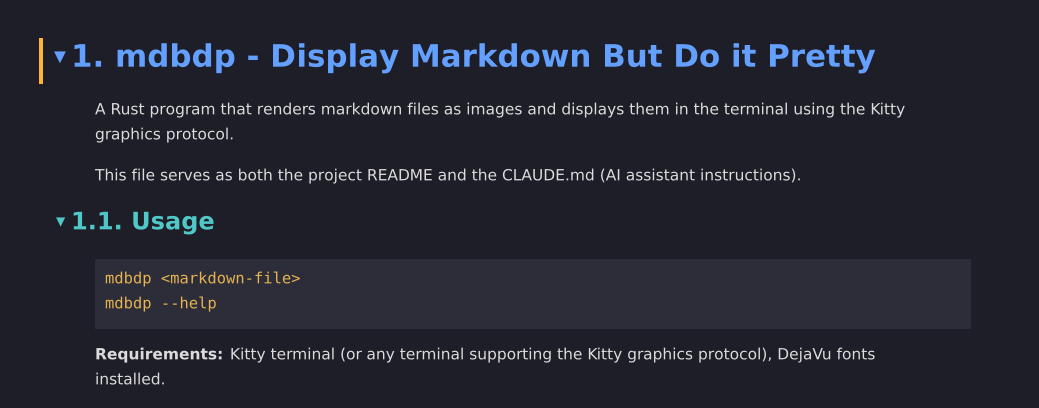
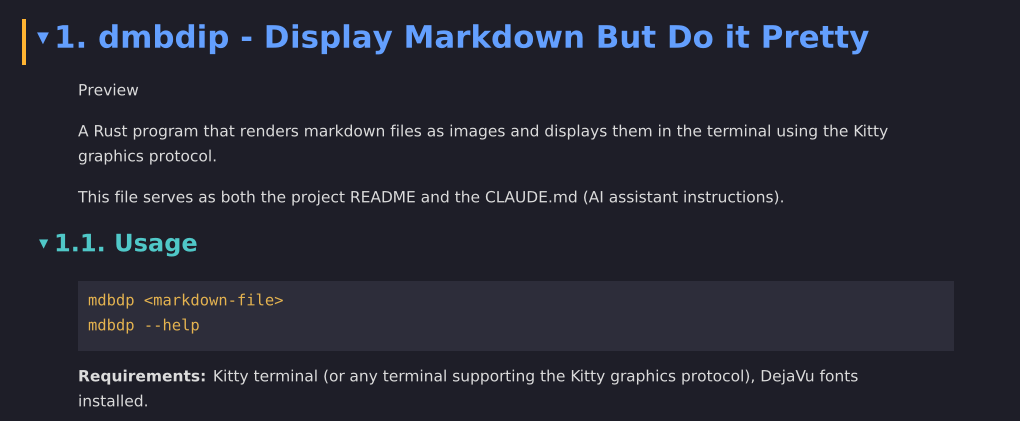
fix project name

diff --git a/CLAUDE.md b/CLAUDE.md
@@ -9,8 +9,8 @@ A Rust program that renders markdown files as images and displays them in the te
 ## Usage
 
 ```
-mdbdp <markdown-file>
-mdbdp --help
+dmbdip <markdown-file>
+dmbdip --help
 ```
 
 **Requirements:** Kitty terminal (or any terminal supporting the Kitty graphics protocol), DejaVu fonts installed.
@@ -23,10 +23,10 @@ Requires Rust (1.85+ for edition 2024). Install via [rustup](https://rustup.rs/)
 cargo build --release
 ```
 
-The binary will be at `target/release/mdbdp`. Copy it to a directory in your `$PATH`:
+The binary will be at `target/release/dmbdip`. Copy it to a directory in your `$PATH`:
 
 ```
-cp target/release/mdbdp ~/.local/bin/
+cp target/release/dmbdip ~/.local/bin/
 ```
 
 ## Keybindings
